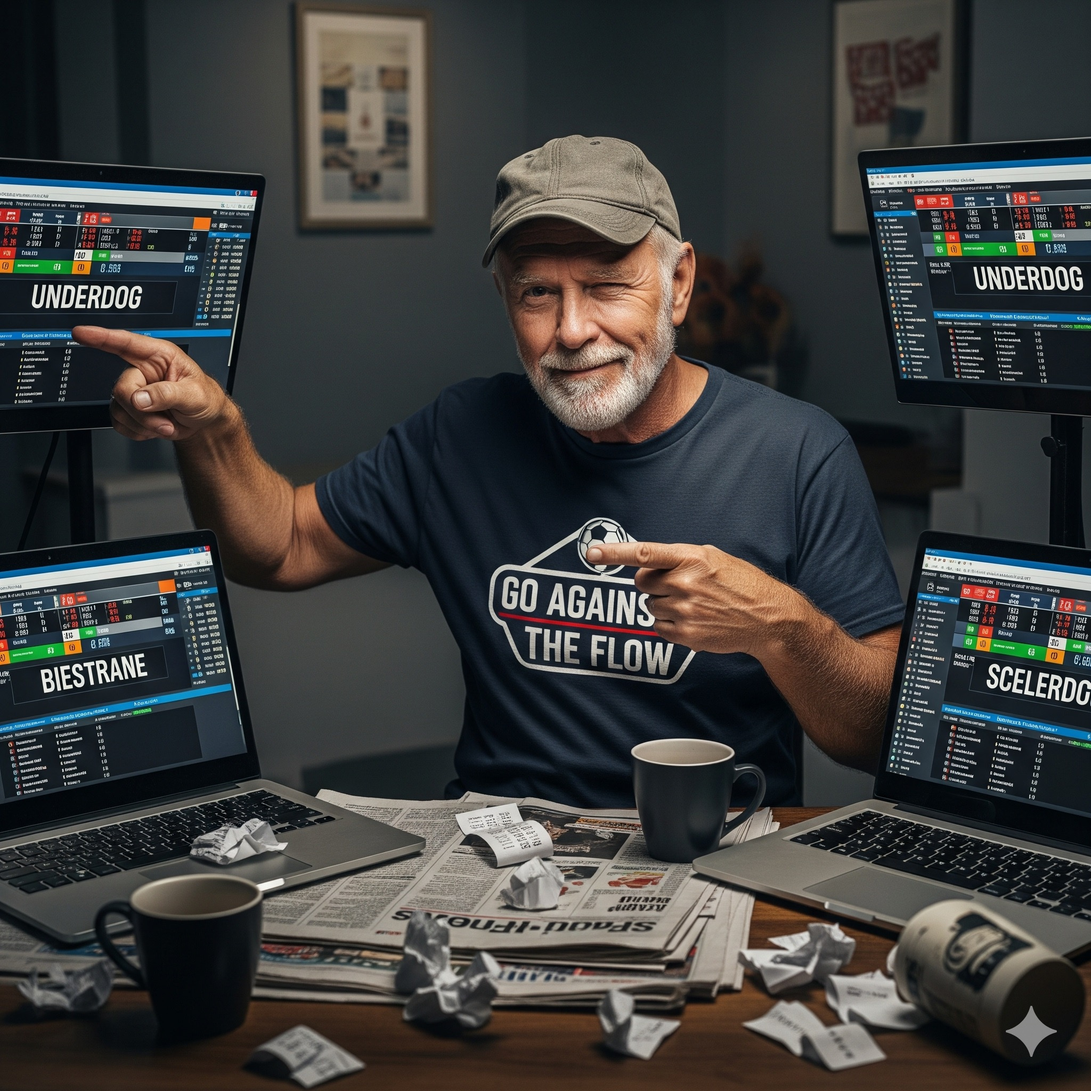
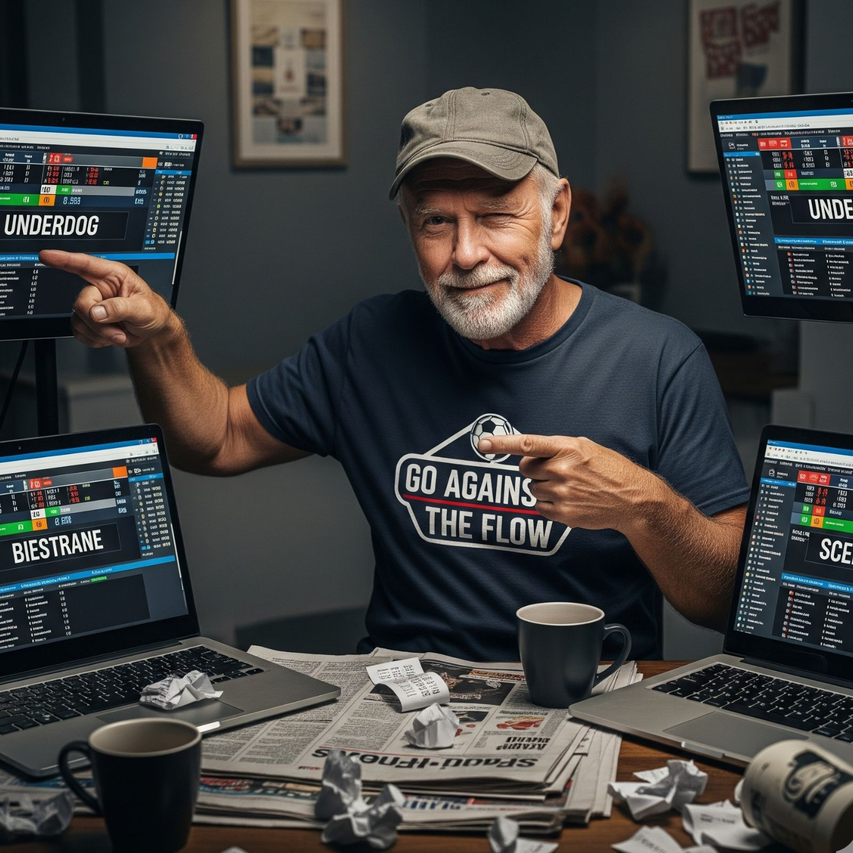
ui(bio/about): align widths to lg; square hero aspect on BiosPage

diff --git a/frontend/src/pages/BiosPage.tsx b/frontend/src/pages/BiosPage.tsx
@@ -64,7 +64,7 @@ export default function BiosPage() {
   }
 
   return (
-    <Container maxWidth="md" sx={{ py: 4 }}>
+    <Container maxWidth="lg" sx={{ py: 4 }}>
       <Stack spacing={6}>
         <Box sx={{ borderRadius: 2, overflow: 'hidden', border: '1px solid rgba(255,255,255,0.08)' }}>
           <HeroImage srcPrimary={persona.profileImageUrl} avatarUrl={persona.avatarUrl} alt={persona.name} />
@@ -116,7 +116,7 @@ function HeroImage({ srcPrimary, avatarUrl, alt }: { srcPrimary?: string; avatar
   };
 
   return (
-    <Box sx={{ width: '100%', height: { xs: 220, sm: 280, md: 340 }, backgroundColor: 'rgba(255,255,255,0.04)' }}>
+    <Box sx={{ width: '100%', aspectRatio: '1 / 1', backgroundColor: 'rgba(255,255,255,0.04)' }}>
       {currentSrc ? (
         <Box
           component="img"

diff --git a/frontend/src/pages/AboutPage.tsx b/frontend/src/pages/AboutPage.tsx
@@ -3,7 +3,7 @@ import { Container, Typography, Box } from '@mui/material';
 
 export default function AboutPage() {
   return (
-    <Container maxWidth="md" sx={{ py: 4, px: { xs: 2, sm: 3 }, overflowX: 'hidden' }}>
+    <Container maxWidth="lg" sx={{ py: 4, px: { xs: 2, sm: 3 }, overflowX: 'hidden' }}>
       <Box sx={{ mb: 3 }}>
         <Typography variant="h4" sx={{ fontWeight: 700, mb: 1, fontSize: { xs: '1.5rem', sm: '2rem' } }}>About</Typography>
         <Typography variant="body1" sx={{ color: 'text.secondary', wordBreak: 'break-word', overflowWrap: 'anywhere' }}>
